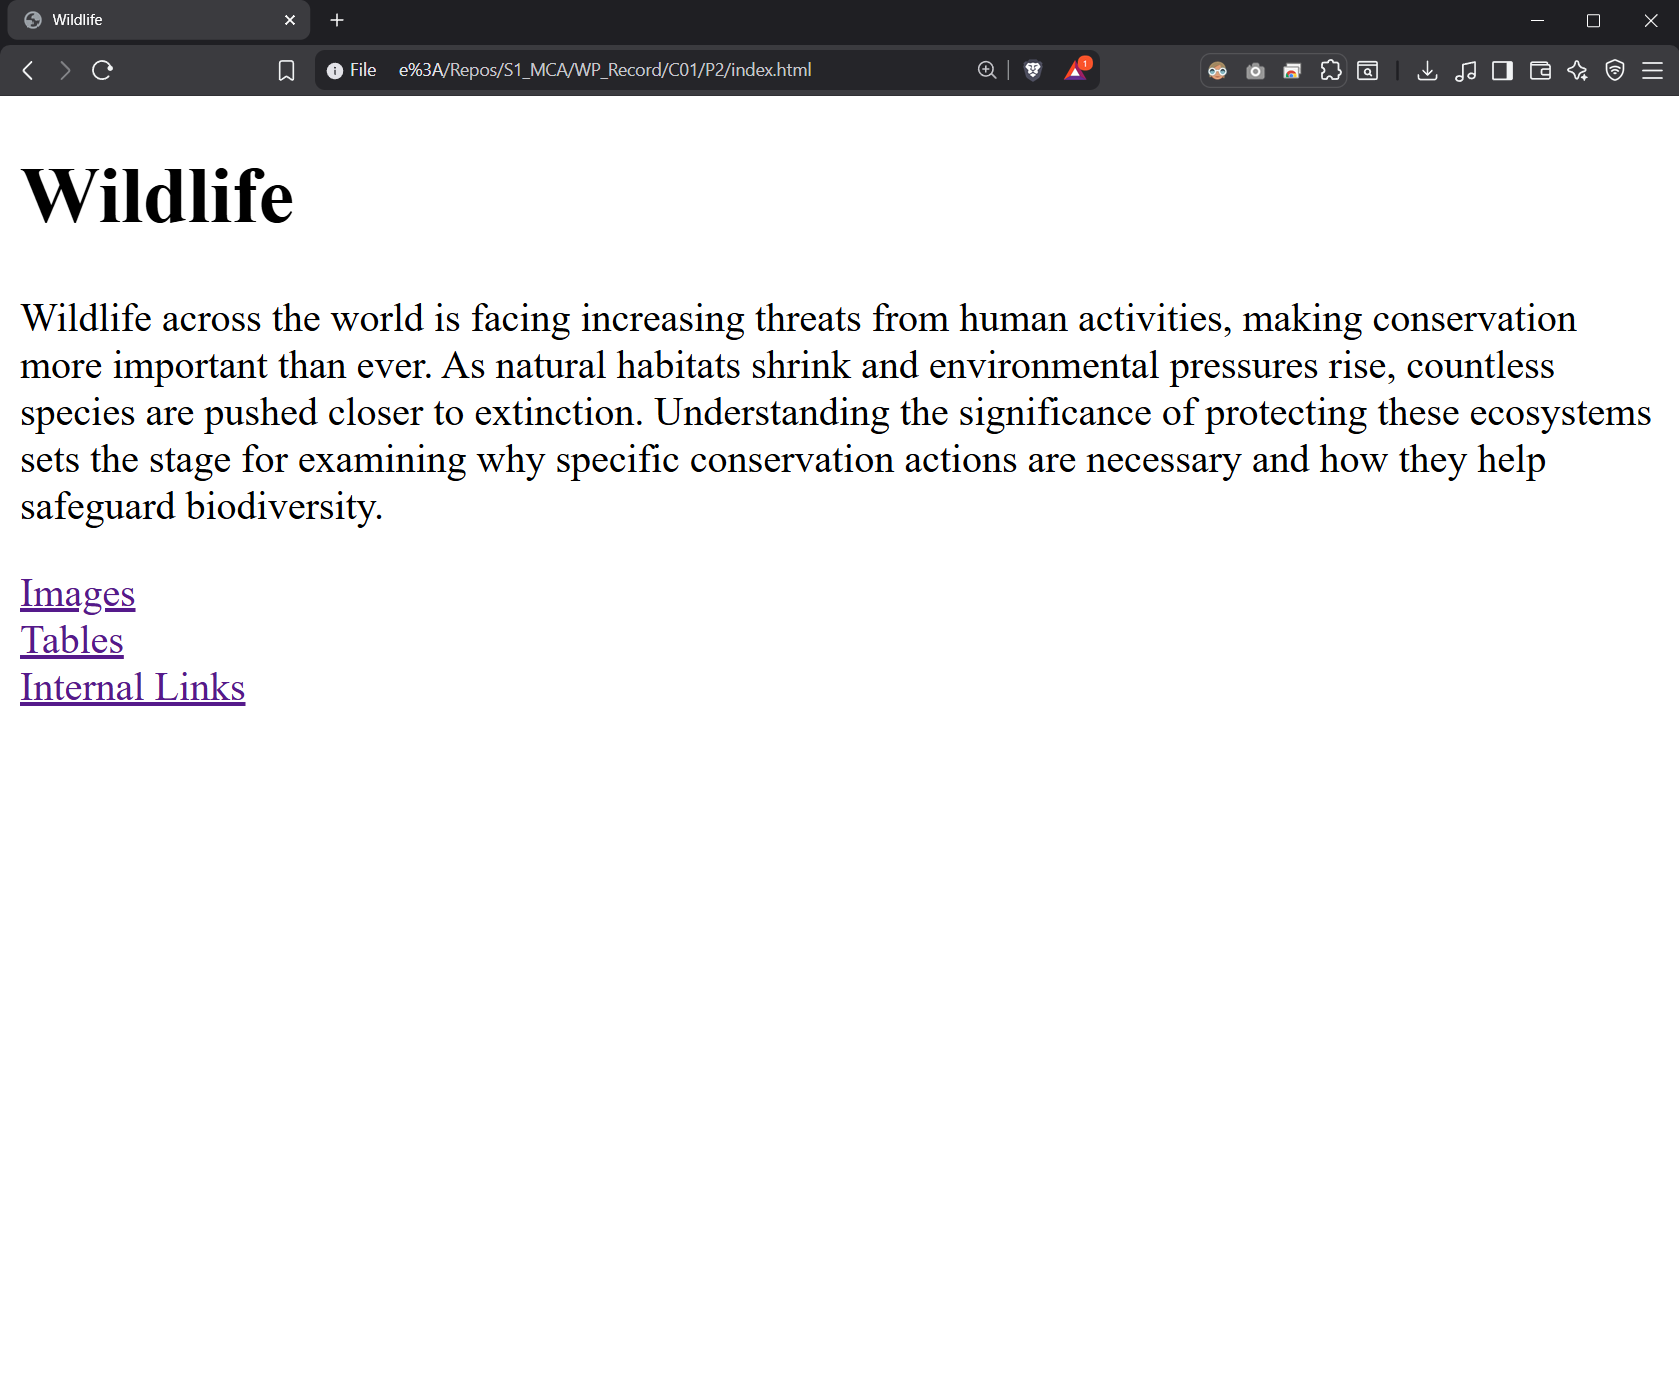
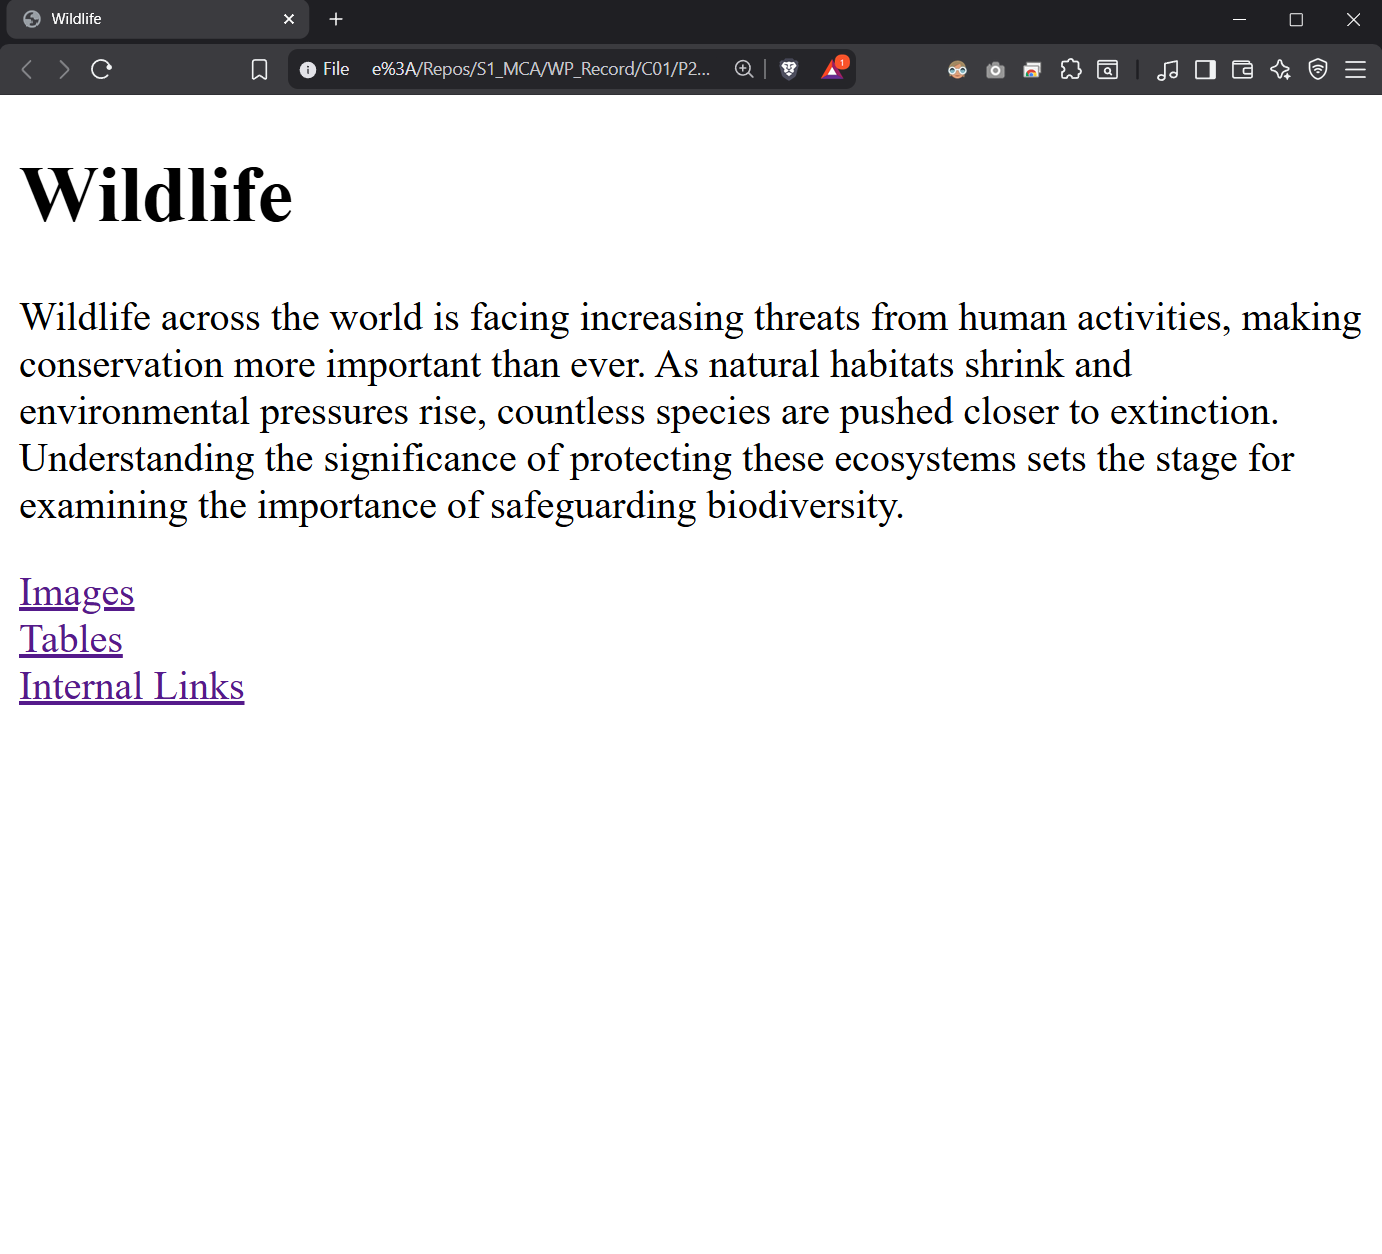
P1, P2 shortened

Changed region(s): [[0.0, 0.2177, 0.9957, 0.5598], [0.0, 0.0, 1.0, 0.0933], [0.0, 0.1244, 0.2178, 0.1866]]

diff --git a/C01/P2/internal.html b/C01/P2/internal.html
@@ -1,15 +1,15 @@
 <!DOCTYPE html>
 <html>
-    <head>
-        <title>Internal Links</title>
-    </head>
-    <body>
-        <h1>Internal Links</h1>
-        <a href="#sec1">Section 1</a> | <a href="#sec2">Section 2</a>
-        <h2 id="sec1">Tropical Rainforests</h2>
-        <p>Tropical rainforests cover only 6% of Earth's surface but contain more than half of the world's plant and animal species. These forests are found near the equator and receive heavy rainfall throughout the year, creating a unique ecosystem that supports incredible biodiversity.</p>
-        <h2 id="sec2">Wildlife Conservation</h2>
-        <p>Wildlife conservation is crucial for maintaining ecological balance. Many species like tigers, elephants, and pandas are endangered due to habitat loss and poaching. Conservation efforts include creating protected areas, breeding programs, and raising public awareness about the importance of preserving natural habitats.</p>
-        <br><a href="index.html">Back</a>
-    </body>
+<head>
+    <title>Internal Links</title>
+</head>
+<body>
+    <h1>Internal Links</h1>
+    <a href="#sec1">Section 1</a> | <a href="#sec2">Section 2</a>
+    <h2 id="sec1">Tropical Rainforests</h2>
+    <p>Tropical rainforests cover 6% of Earth but hold over half of all species. Located near the equator, their heavy rainfall creates highly diverse ecosystems.</p>
+    <h2 id="sec2">Wildlife Conservation</h2>
+    <p>Wildlife conservation protects endangered animals by preventing habitat loss and poaching through protected areas, breeding programs, and public awareness.</p>
+    <br><a href="index.html">Back</a>
+</body>
 </html>

diff --git a/C01/P2/tables.html b/C01/P2/tables.html
@@ -1,32 +1,32 @@
 <!DOCTYPE html>
 <html>
-    <head>
-        <title>Tables</title>
-    </head>
-    <body>
-        <h1>Tables</h1>
-        <table border="1">
-            <tr>
-                <th>Animal</th>
-                <th>Habitat</th>
-                <th>Status</th>
-            </tr>
-            <tr>
-                <td>Tiger</td>
-                <td>Forest</td>
-                <td>Endangered</td>
-            </tr>
-            <tr>
-                <td>Elephant</td>
-                <td>Savanna</td>
-                <td>Vulnerable</td>
-            </tr>
-            <tr>
-                <td>Panda</td>
-                <td>Bamboo Forest</td>
-                <td>Vulnerable</td>
-            </tr>
-        </table>
-        <br><a href="index.html">Back</a>
-    </body>
+<head>
+    <title>Tables</title>
+</head>
+<body>
+    <h1>Tables</h1>
+    <table border="1">
+        <tr>
+            <th>Animal</th>
+            <th>Habitat</th>
+            <th>Status</th>
+        </tr>
+        <tr>
+            <td>Tiger</td>
+            <td>Forest</td>
+            <td>Endangered</td>
+        </tr>
+        <tr>
+            <td>Elephant</td>
+            <td>Savanna</td>
+            <td>Vulnerable</td>
+        </tr>
+        <tr>
+            <td>Panda</td>
+            <td>Bamboo Forest</td>
+            <td>Vulnerable</td>
+        </tr>
+    </table>
+    <br><a href="index.html">Back</a>
+</body>
 </html>

diff --git a/C01/P1/index.html b/C01/P1/index.html
@@ -1,34 +1,24 @@
 <!DOCTYPE html>
 <html>
-    <head>
-        <title>HTML Tags</title>
-    </head>
-    <body>
-        <center>
-            <h1>Heading 1</h1>
-            <h2>Heading 2</h2>
-            <p>This is a <b>bold</b> and <i>italic</i> paragraph.</p>
-            <ul>
-                <li>Item 1</li>
-                <li>Item 2</li>
-            </ul>
-            <ol>
-                <li>First</li>
-                <li>Second</li>
-            </ol>
-            <a href="https://www.w3schools.com">W3 Schools Website</a><br><br>
-            <table border="1">
-                <tr>
-                    <th>Name</th>
-                    <th>Age</th>
-                </tr>
-                <tr>
-                    <td>John</td>
-                    <td>25</td>
-                </tr>
-            </table>
-            <hr>
-            <p>Line 1<br>Line 2</p>
-        </center>
-    </body>
+<head>
+    <title>HTML Tags</title>
+</head>
+<body>
+    <center>
+        <h1>Heading 1</h1>
+        <h2>Heading 2</h2>
+        <p>This is a <b>bold</b> and <i>italic</i> paragraph.</p>
+        <ul>
+            <li>Item 1</li>
+            <li>Item 2</li>
+        </ul>
+        <ol>
+            <li>First</li>
+            <li>Second</li>
+        </ol>
+        <a href="https://www.w3schools.com">W3 Schools Website</a><br><br>
+        <hr>
+        <p>Line 1<br>Line 2</p>
+    </center>
+</body>
 </html>

diff --git a/C01/P2/index.html b/C01/P2/index.html
@@ -1,13 +1,13 @@
 <!DOCTYPE html>
 <html>
-    <head>
-        <title>Wildlife</title>
-    </head>
-    <body>
-        <h1>Wildlife</h1>
-        <p>Wildlife across the world is facing increasing threats from human activities, making conservation more important than ever. As natural habitats shrink and environmental pressures rise, countless species are pushed closer to extinction. Understanding the significance of protecting these ecosystems sets the stage for examining why specific conservation actions are necessary and how they help safeguard biodiversity.</p>
-        <a href="images.html">Images</a><br>
-        <a href="tables.html">Tables</a><br>
-        <a href="internal.html">Internal Links</a>
-    </body>
+<head>
+    <title>Wildlife</title>
+</head>
+<body>
+    <h1>Wildlife</h1>
+    <p>Wildlife across the world is facing increasing threats from human activities, making conservation more important than ever. As natural habitats shrink and environmental pressures rise, countless species are pushed closer to extinction. Understanding the significance of protecting these ecosystems sets the stage for examining the importance of safeguarding biodiversity.</p>
+    <a href="images.html">Images</a><br>
+    <a href="tables.html">Tables</a><br>
+    <a href="internal.html">Internal Links</a>
+</body>
 </html>

diff --git a/C01/P2/images.html b/C01/P2/images.html
@@ -1,13 +1,13 @@
 <!DOCTYPE html>
 <html>
-    <head>
-        <title>Images</title>
-    </head>
-    <body>
-        <h1>Images</h1>
-        <p>Some Wildlife Habitats</p>
-        <img src="https://www.w3schools.com/w3images/nature.jpg" alt="Nature" width=250">
-        <img src="https://www.w3schools.com/w3images/mountains.jpg" alt="Mountains" width=250">
-        <br><a href="index.html">Back</a>
-    </body>
+<head>
+    <title>Images</title>
+</head>
+<body>
+    <h1>Images</h1>
+    <p>Some Wildlife Habitats</p>
+    <img src="https://www.w3schools.com/w3images/nature.jpg" alt="Nature" width=250">
+    <img src="https://www.w3schools.com/w3images/mountains.jpg" alt="Mountains" width=250">
+    <br><a href="index.html">Back</a>
+</body>
 </html>
